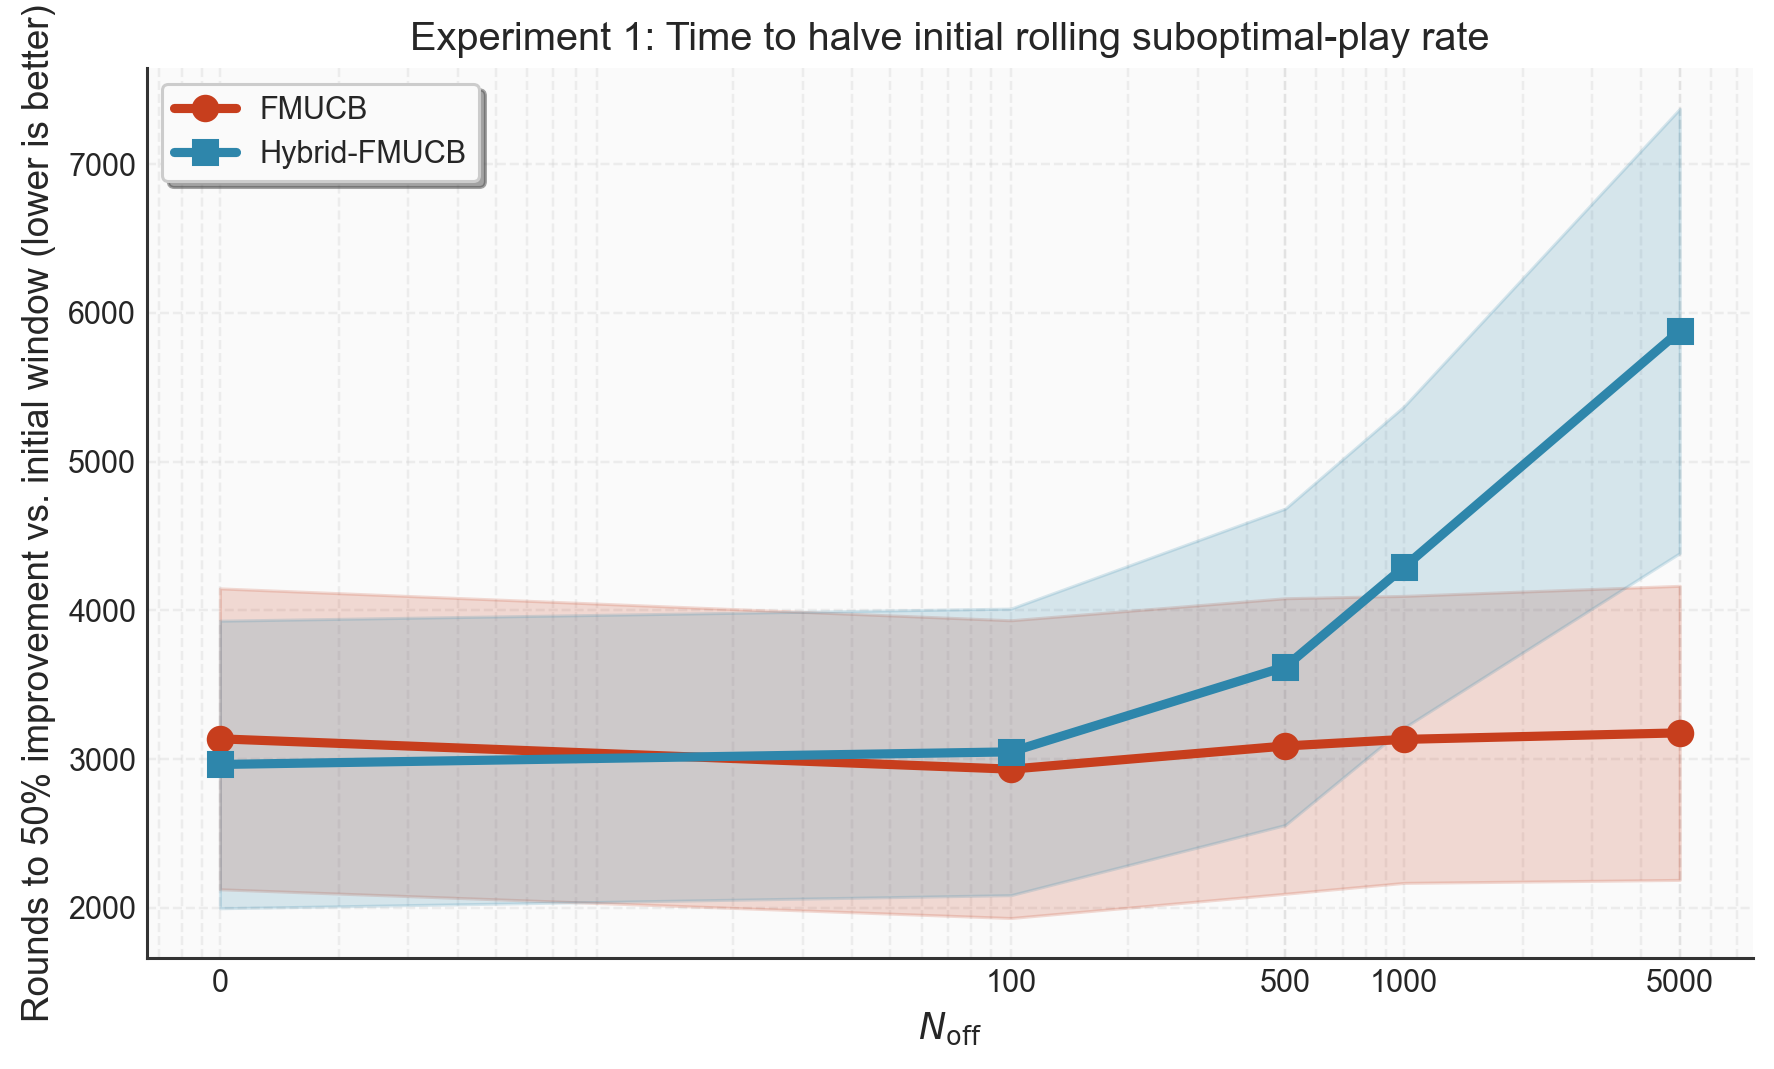
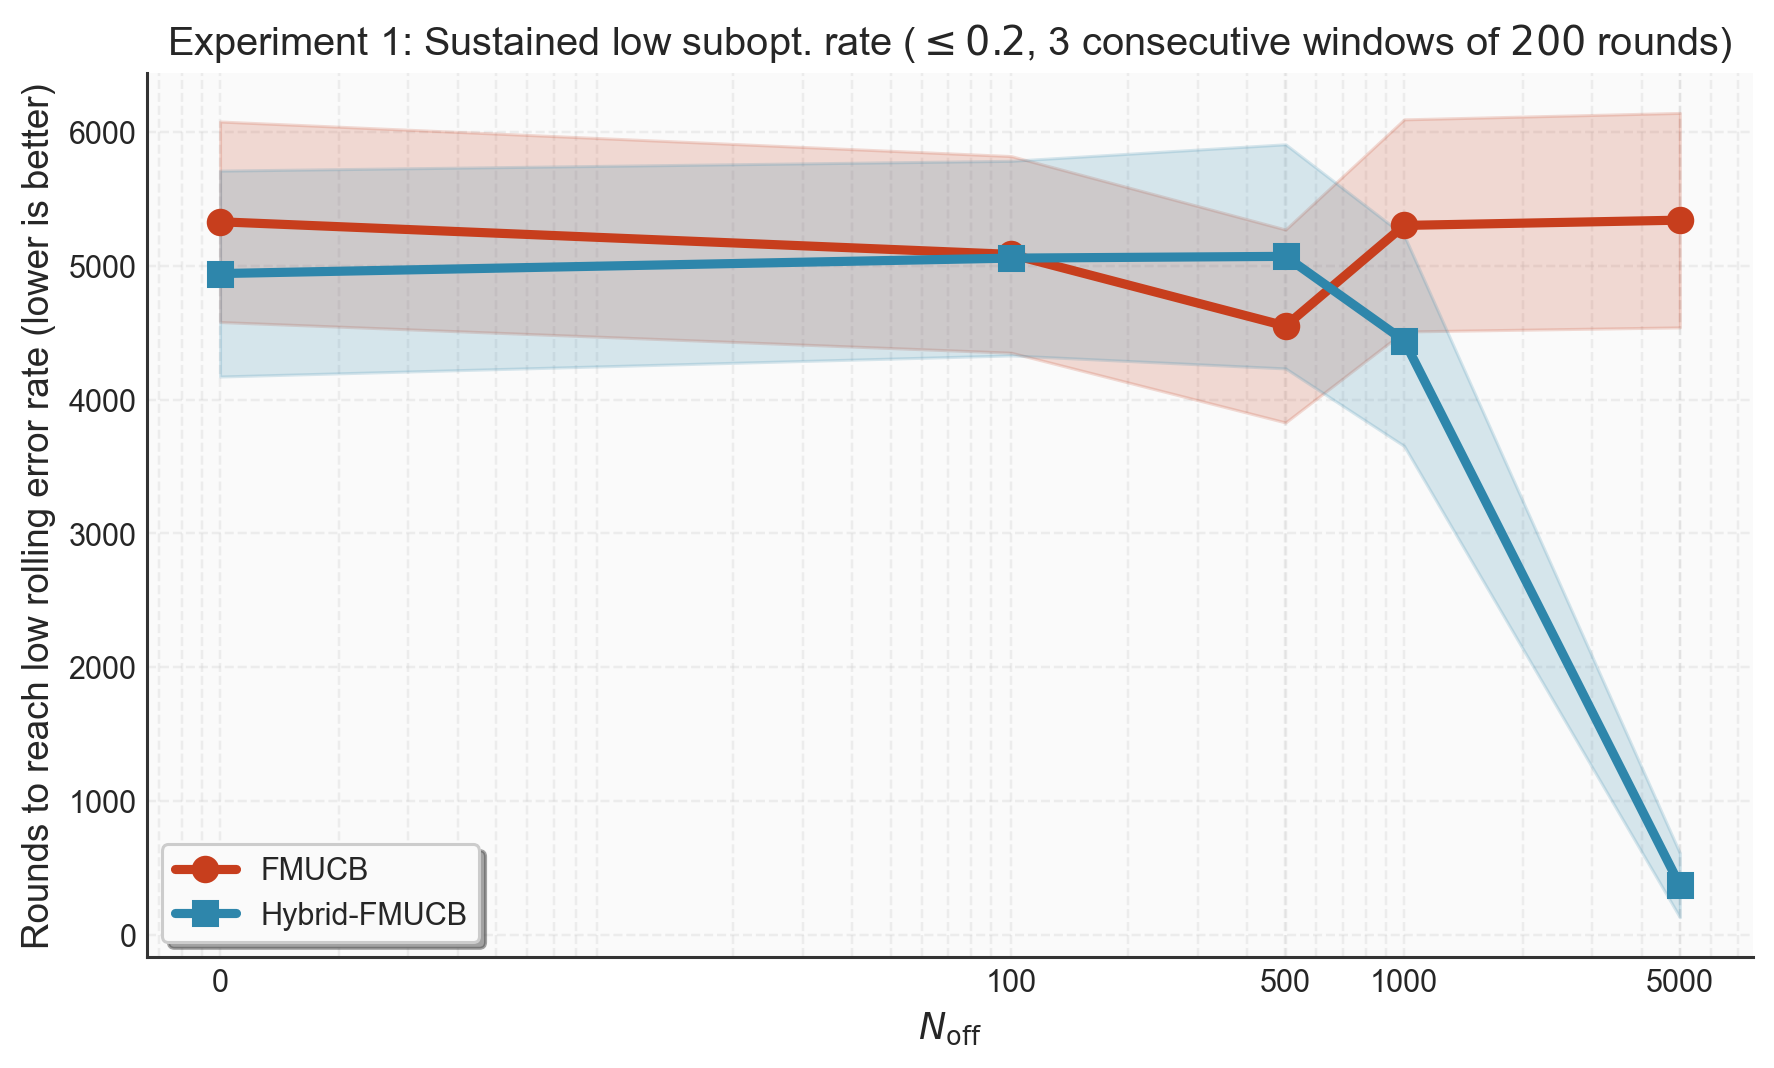
bugfix: sync a fixed goal; added progress bar; update visuals

diff --git a/run_experiments.py b/run_experiments.py
@@ -3,7 +3,7 @@
 Hybrid Offline-Online Follower Manipulation — experiments matching experiment.md
 
 - Synthetic Stackelberg bandit: leader EXP3, follower UCB (FMUCB / Hybrid-FMUCB).
-- Metrics: T_{f,w} (suboptimal follower plays), convergence time, optional leader regret.
+- Metrics: T_{f,w} (suboptimal follower plays), time to sustained low rolling subopt. rate, optional leader regret.
 """
 
 from __future__ import annotations
@@ -19,6 +19,7 @@ import matplotlib
 matplotlib.use("Agg")
 import matplotlib.pyplot as plt
 import numpy as np
+from tqdm import tqdm
 
 # ---------------------------------------------------------------------------
 # Style
@@ -272,21 +273,27 @@ def build_offline_poor_coverage(
     return n_visits, sum_r
 
 
-def convergence_round(subopt: np.ndarray, window: int = 200) -> int:
+def convergence_round(
+    subopt: np.ndarray,
+    window: int = 200,
+    threshold: float = 0.2,
+    k_sustain: int = 3,
+) -> int:
     """
-    First round t where the rolling suboptimal-play rate drops to half the rate
-    in the initial window [0, window) — a relative "time to 50% improvement" metric.
+    First round index t (end of an online window) such that the rolling
+    suboptimal-play rate is at most `threshold` for `k_sustain` consecutive
+    window ends. Uses an absolute threshold so methods that already start
+    with a low rate are not penalized (unlike "halve the initial window").
     """
     h = len(subopt)
-    if h < window:
+    min_t = window + k_sustain - 1
+    if h < min_t:
         return h
-    base = float(subopt[:window].mean())
-    if base <= 0.0:
-        return window
-    target = 0.5 * base
-    for t in range(window, h + 1):
-        rate = float(subopt[t - window : t].mean())
-        if rate <= target:
+    for t in range(min_t, h + 1):
+        if all(
+            float(subopt[t - s - window : t - s].mean()) <= threshold
+            for s in range(k_sustain)
+        ):
             return t
     return h
 
@@ -310,11 +317,16 @@ def experiment1(
     gamma_exp3: float,
     n_off_grid: Sequence[int],
     cum_n_off: Optional[int] = None,
+    progress: bool = True,
 ) -> None:
     n_off_list = list(n_off_grid)
     cum_target = max(n_off_list) if cum_n_off is None else cum_n_off
     if cum_target not in n_off_list:
         cum_target = max(n_off_list)
+
+    conv_win = 200
+    conv_thr = 0.2
+    conv_k = 3
 
     t_fw_base = np.zeros((len(seeds), len(n_off_list)))
     t_fw_hyb = np.zeros((len(seeds), len(n_off_list)))
@@ -323,7 +335,9 @@ def experiment1(
     cum_base_rows: List[np.ndarray] = []
     cum_hyb_rows: List[np.ndarray] = []
 
-    for si, seed in enumerate(seeds):
+    for si, seed in enumerate(
+        tqdm(seeds, desc="Exp 1 (offline size × seeds)", unit="seed", disable=not progress)
+    ):
         rng = np.random.default_rng(seed)
         env = StackelbergBandit.sample(n_a, n_b, rng)
 
@@ -338,8 +352,12 @@ def experiment1(
 
             t_fw_base[si, j] = tr_b["subopt"].sum()
             t_fw_hyb[si, j] = tr_h["subopt"].sum()
-            conv_base[si, j] = convergence_round(tr_b["subopt"])
-            conv_hyb[si, j] = convergence_round(tr_h["subopt"])
+            conv_base[si, j] = convergence_round(
+                tr_b["subopt"], window=conv_win, threshold=conv_thr, k_sustain=conv_k
+            )
+            conv_hyb[si, j] = convergence_round(
+                tr_h["subopt"], window=conv_win, threshold=conv_thr, k_sustain=conv_k
+            )
 
             if n_off == cum_target:
                 cum_base_rows.append(np.cumsum(tr_b["subopt"].astype(np.float64)))
@@ -386,7 +404,7 @@ def experiment1(
     fig.savefig(p1, bbox_inches="tight")
     plt.close(fig)
 
-    # --- Plot 2: convergence time (50% improvement in rolling subopt. rate)
+    # --- Plot 2: rounds to sustained low rolling subopt. rate (absolute threshold)
     fig, ax = plt.subplots(figsize=(8.2, 5.0))
     ax.set_xscale("log")
     ax.grid(True, which="both", alpha=0.3)
@@ -399,8 +417,11 @@ def experiment1(
     ax.set_xticks(x_plot)
     ax.set_xticklabels(x_labels)
     ax.set_xlabel(r"$N_{\mathrm{off}}$")
-    ax.set_ylabel("Rounds to 50% improvement vs. initial window (lower is better)")
-    ax.set_title("Experiment 1: Time to halve initial rolling suboptimal-play rate")
+    ax.set_ylabel("Rounds to reach low rolling error rate (lower is better)")
+    ax.set_title(
+        rf"Experiment 1: Sustained low subopt. rate ($\leq {conv_thr}$, "
+        rf"{conv_k} consecutive windows of ${conv_win}$ rounds)"
+    )
     ax.legend(frameon=True, fancybox=True, shadow=True)
     _style_axis(ax)
     fig.tight_layout()
@@ -436,7 +457,10 @@ def experiment1(
     summary = {
         "n_off": n_off_list,
         "x_axis_log_shift_plus_1": True,
-        "convergence_metric": "first_t_where_rolling_mean_subopt_le_half_initial_window",
+        "convergence_metric": "first_t_where_rolling_subopt_rate_le_threshold_for_k_consecutive_window_ends",
+        "convergence_window": conv_win,
+        "convergence_threshold": conv_thr,
+        "convergence_k_sustain": conv_k,
         "cum_mistakes_n_off": cum_target,
         "tfw_baseline_mean": t_fw_base.mean(0).tolist(),
         "tfw_hybrid_mean": t_fw_hyb.mean(0).tolist(),
@@ -455,6 +479,7 @@ def experiment2(
     horizon: int,
     gamma_exp3: float,
     n_off_fixed: int,
+    progress: bool = True,
 ) -> None:
     t_fw: Dict[str, np.ndarray] = {"good": [], "poor": []}
     success: Dict[str, np.ndarray] = {"good": [], "poor": []}
@@ -462,7 +487,13 @@ def experiment2(
     for kind in ("good", "poor"):
         arr_t = np.zeros(len(seeds))
         arr_s = np.zeros(len(seeds))
-        for si, seed in enumerate(seeds):
+        seed_bar = tqdm(
+            seeds,
+            desc=f"Exp 2 ({kind} coverage)",
+            unit="seed",
+            disable=not progress,
+        )
+        for si, seed in enumerate(seed_bar):
             rng = np.random.default_rng(seed)
             env = StackelbergBandit.sample(n_a, n_b, rng)
             rng_h = np.random.default_rng(seed + 91_000)
@@ -577,13 +608,19 @@ def learning_curve_figure(
     horizon: int,
     gamma_exp3: float,
     n_off: int,
+    progress: bool = True,
 ) -> None:
     """Optional: rolling suboptimality rate over time (baseline vs hybrid)."""
     curves_b: List[np.ndarray] = []
     curves_h: List[np.ndarray] = []
     win = max(50, horizon // 100)
 
-    for seed in seeds:
+    for seed in tqdm(
+        seeds,
+        desc="Learning curves (optional)",
+        unit="seed",
+        disable=not progress,
+    ):
         rng = np.random.default_rng(seed)
         env = StackelbergBandit.sample(n_a, n_b, rng)
         rng_b = np.random.default_rng(seed + 3)
@@ -792,6 +829,7 @@ def experiment3_contextual(
     n_x: int,
     n_a: int,
     n_b: int,
+    progress: bool = True,
 ) -> None:
     d = n_x + n_a + n_b
     tfw_tab: List[float] = []
@@ -799,7 +837,7 @@ def experiment3_contextual(
     gen_tab: List[float] = []
     gen_ctx: List[float] = []
 
-    for seed in seeds:
+    for seed in tqdm(seeds, desc="Exp 3 (contextual)", unit="seed", disable=not progress):
         rng = np.random.default_rng(seed)
         theta_l = rng.uniform(-1.0, 1.0, d)
         theta_f = rng.uniform(-1.0, 1.0, d)
@@ -920,11 +958,17 @@ def main() -> None:
     )
     parser.add_argument("--exp3-n-off", type=int, default=1500, help="Offline size for Exp. 3")
     parser.add_argument("--n-x", type=int, default=5, help="Number of contexts |X| (Exp. 3)")
+    parser.add_argument(
+        "--no-progress",
+        action="store_true",
+        help="Disable tqdm progress bars (e.g. for logs or CI)",
+    )
     args = parser.parse_args()
 
     os.makedirs(args.out_dir, exist_ok=True)
     seeds = [args.base_seed + i for i in range(args.seeds)]
     n_off_grid = [0, 100, 500, 1000, 5000]
+    show_p = not args.no_progress
 
     experiment1(
         args.out_dir,
@@ -935,6 +979,7 @@ def main() -> None:
         args.gamma_exp3,
         n_off_grid,
         cum_n_off=args.exp1_cum_n_off,
+        progress=show_p,
     )
     experiment2(
         args.out_dir,
@@ -944,6 +989,7 @@ def main() -> None:
         args.horizon,
         args.gamma_exp3,
         args.exp2_n_off,
+        progress=show_p,
     )
     if not args.skip_learning_curves:
         learning_curve_figure(
@@ -954,6 +1000,7 @@ def main() -> None:
             args.horizon,
             args.gamma_exp3,
             n_off=1000,
+            progress=show_p,
         )
 
     if args.exp3:
@@ -966,6 +1013,7 @@ def main() -> None:
             args.n_x,
             args.n_a,
             args.n_b,
+            progress=show_p,
         )
 
     print(f"Wrote figures to {os.path.abspath(args.out_dir)}")
